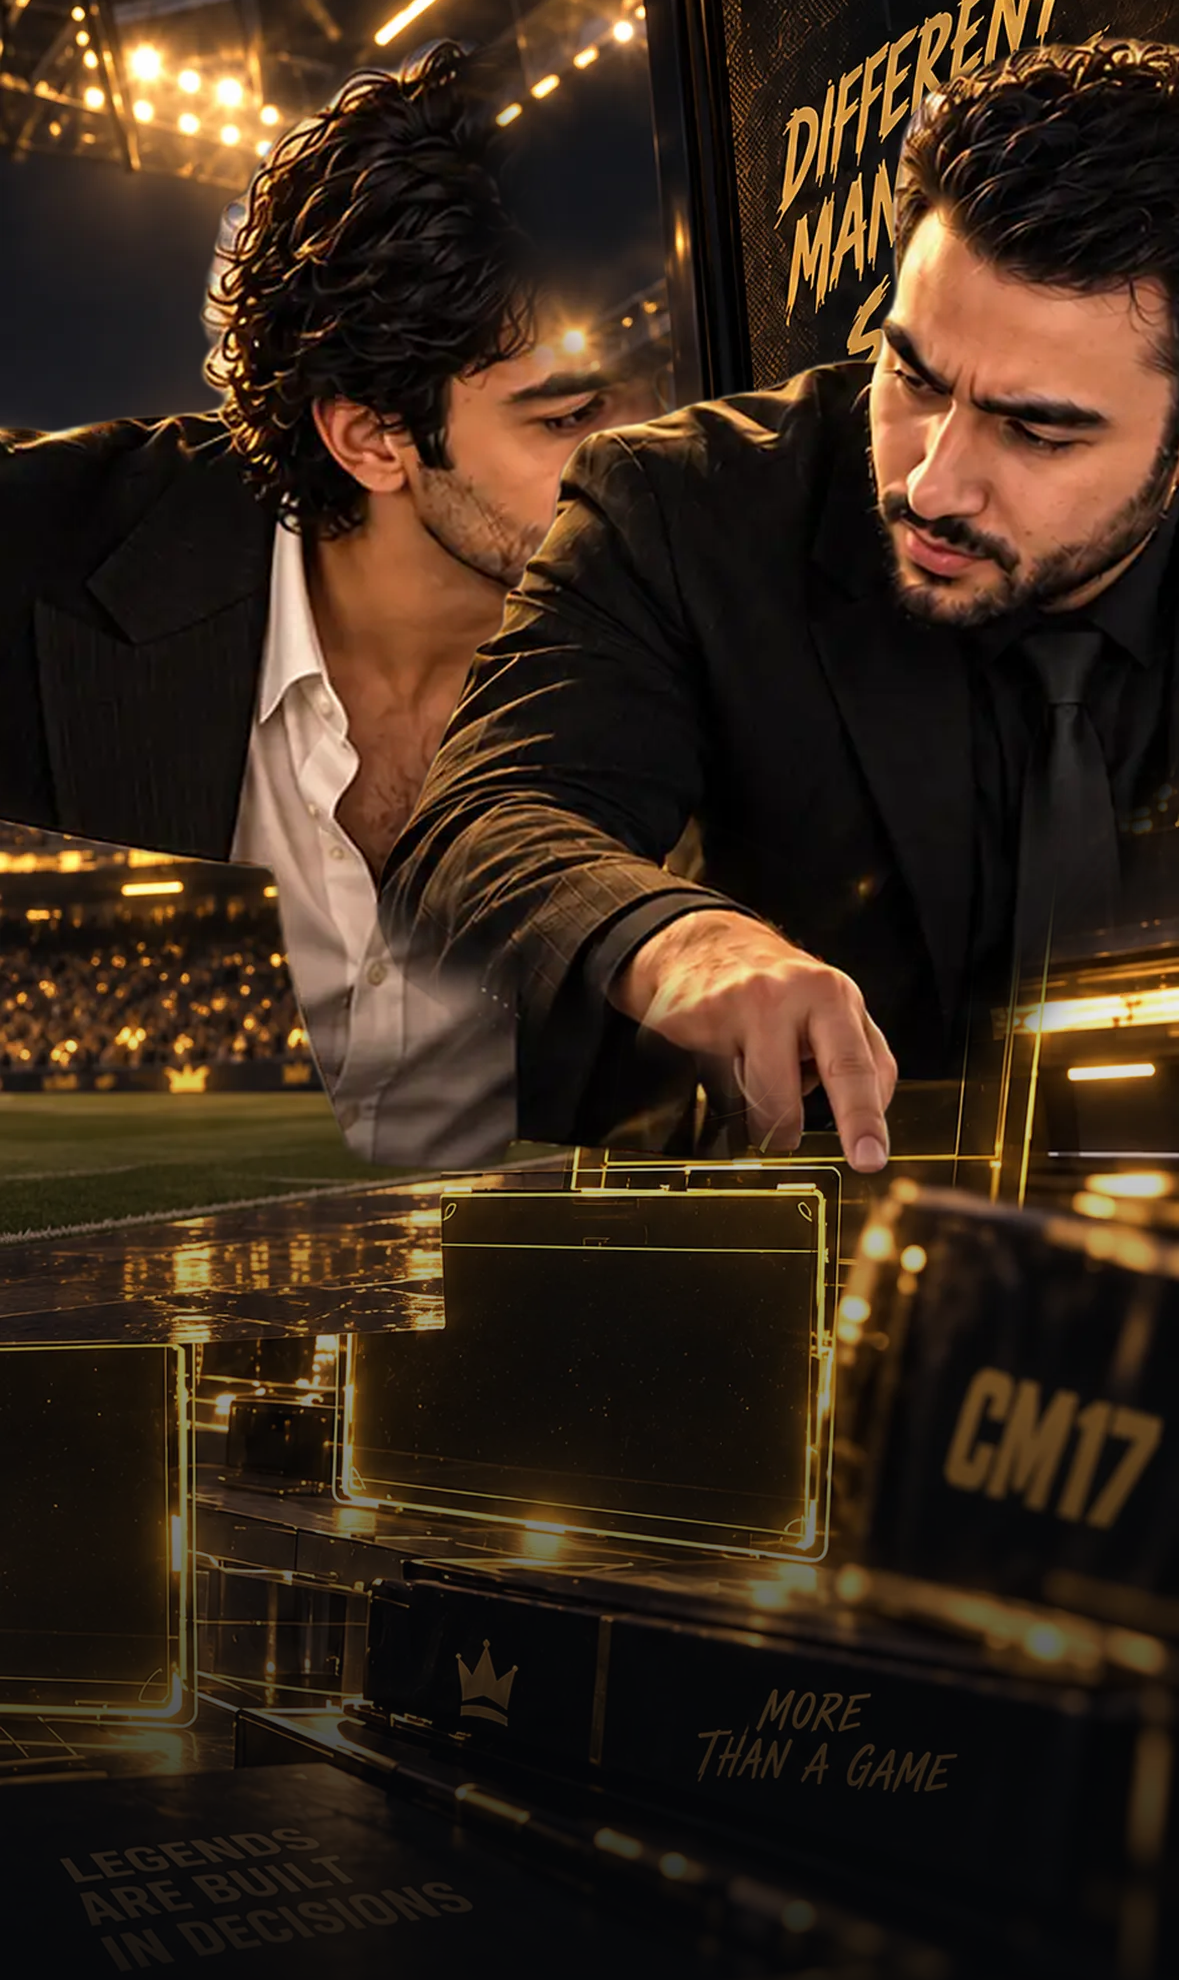
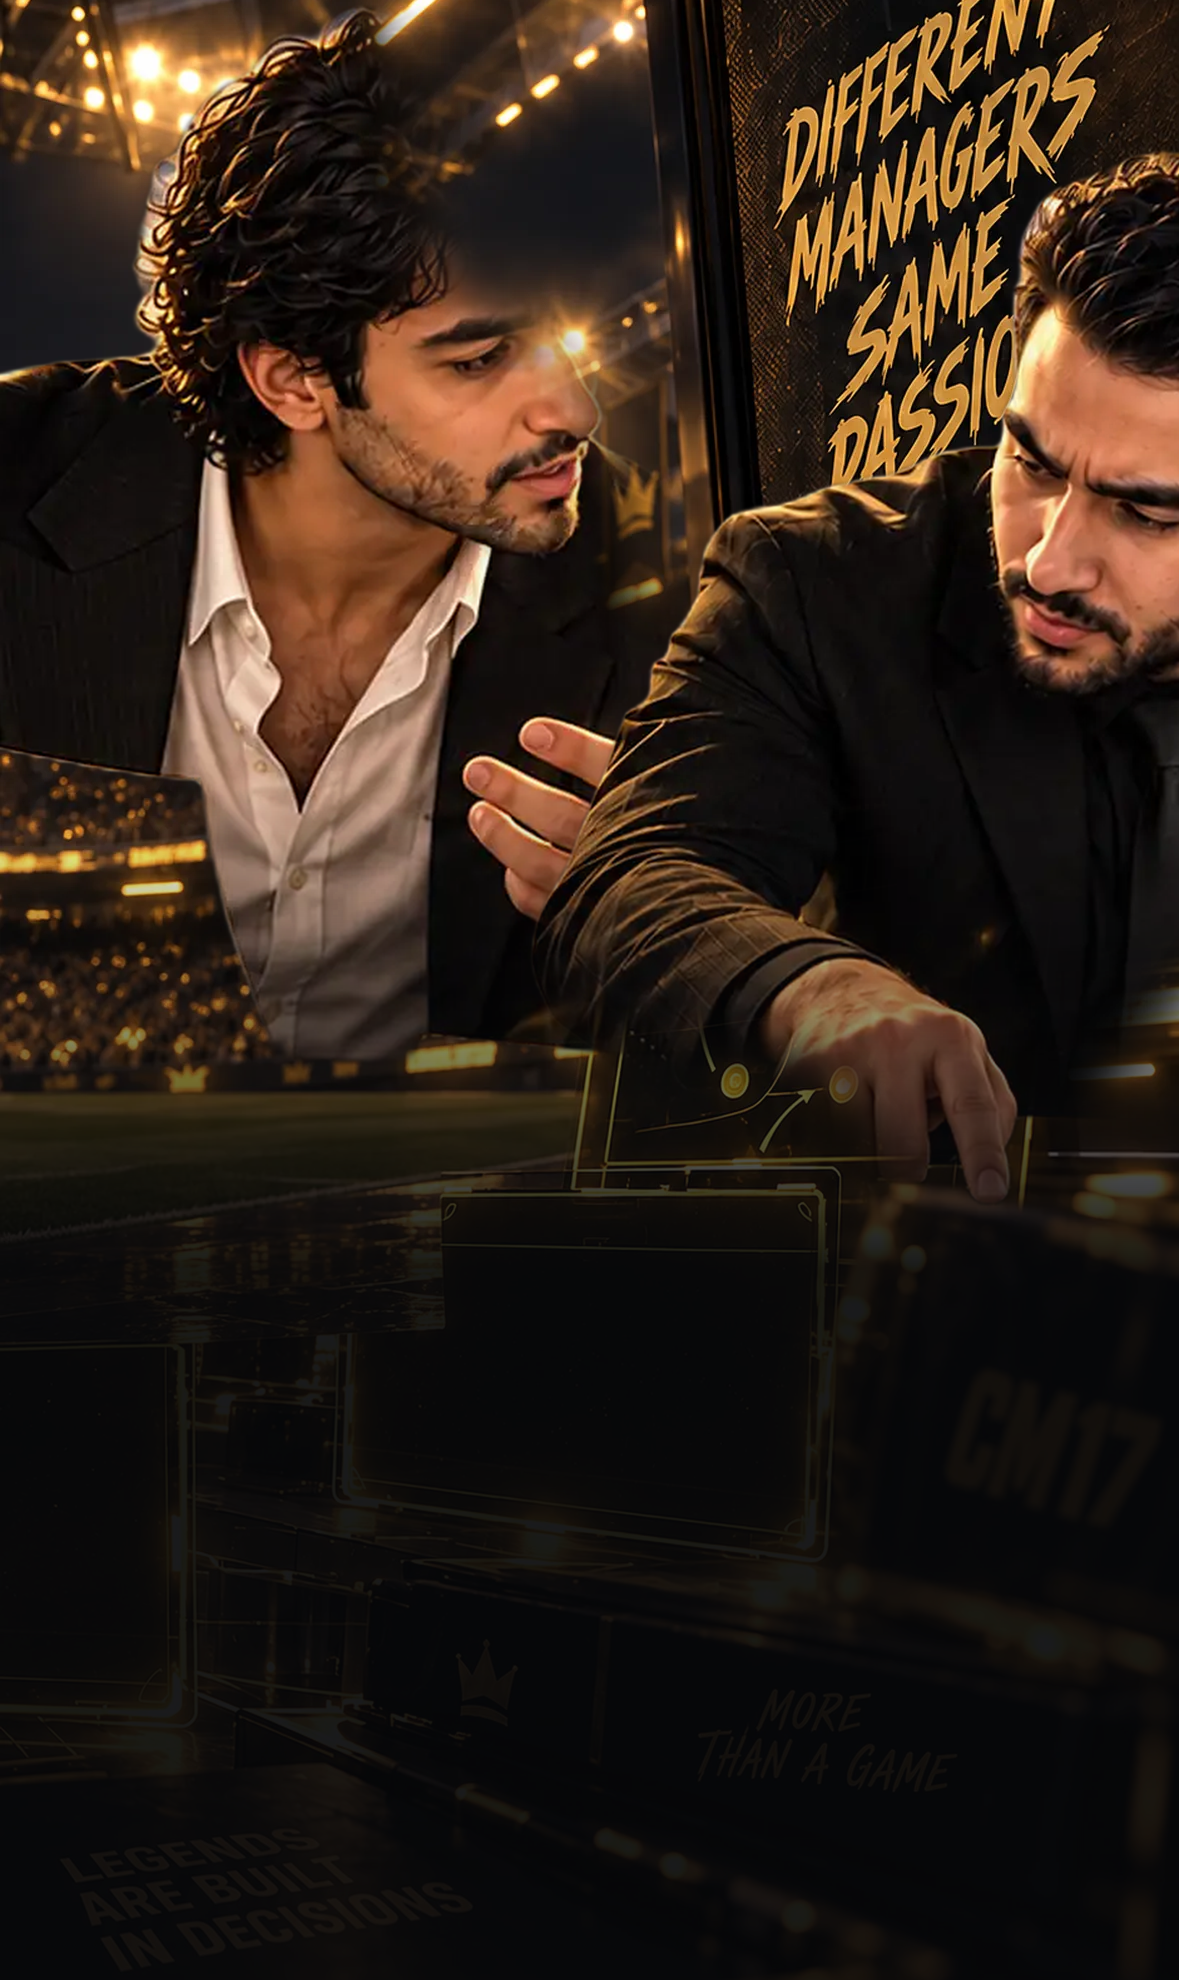
Job 114 Claude fix: Transfer phone frame figures apart (16%/88%), lower band dark by 64%, proof rebuilt; check PASS 4.2, DONE
Claude-Session: https://claude.ai/code/session_014JAHBZfG457Td2bZvt2SKn

diff --git a/project-documents/factory/status/JOB-114.md b/project-documents/factory/status/JOB-114.md
@@ -2,9 +2,9 @@
 
 State: DONE
 Step: 6 of 6
-Updated: 2026-10-04 01:27 UTC
+Updated: 2026-10-04 01:36 UTC
 Chat: GPT-5.6 Sol, Showdown visual
-Claude check: FIX · 2026-10-04 01:00 UTC
+Claude check: PASS 4.2 · 2026-10-04 01:32 UTC
 
 ## Notes
 
@@ -18,11 +18,8 @@ Claude check: FIX · 2026-10-04 01:00 UTC
 - Claude fix round item 2: strengthened the background-only lower scrim to start at 34%, reach 96% opacity by 54%, z 1 below both heroes, and synchronized the proof/runtime recipe so the CM17 box and glass desk do not compete with live controls.
 
 
-## Claude fix list
 
-Do ONLY these items (handbook §5b), save after each, then set State: DONE again.
-
-1. Claude re-cut Nik's phone figure (desk now gone) and re-made the proof. 1. In the proof Nik's shoulder and arm still cover Daniel's chest and cheek; move Daniel further left and Nik further right in phone_frame so both figures sit apart with faces fully clear. 2. The CM17 box and glass desk in the phone background fill the lower half; crop or darken that area so the live controls read cleanly.
+- Claude check (2026-10-04 01:32 UTC): Claude finished the fix round in the lead thread and rendered the proof: phone_frame Daniel centre 16% top 0 and Nik centre 88% top 7% at 54% height, so the faces sit apart and Nik's pointing arm only crosses Daniel's lower jacket; bottom gradient starts at 40% and is opaque by 64%, so the CM17 box and glass desk sit under the dark band (row mean about 10/255 from 65% down). The worker's parallel 14%/84% and 34%/54% values were replaced by these rendered ones. Proof: assets/PHONE_PROOF.png and evidence-claude-check/transfer_114_fix2_proof.jpg.
 
 ## Self-check
 
